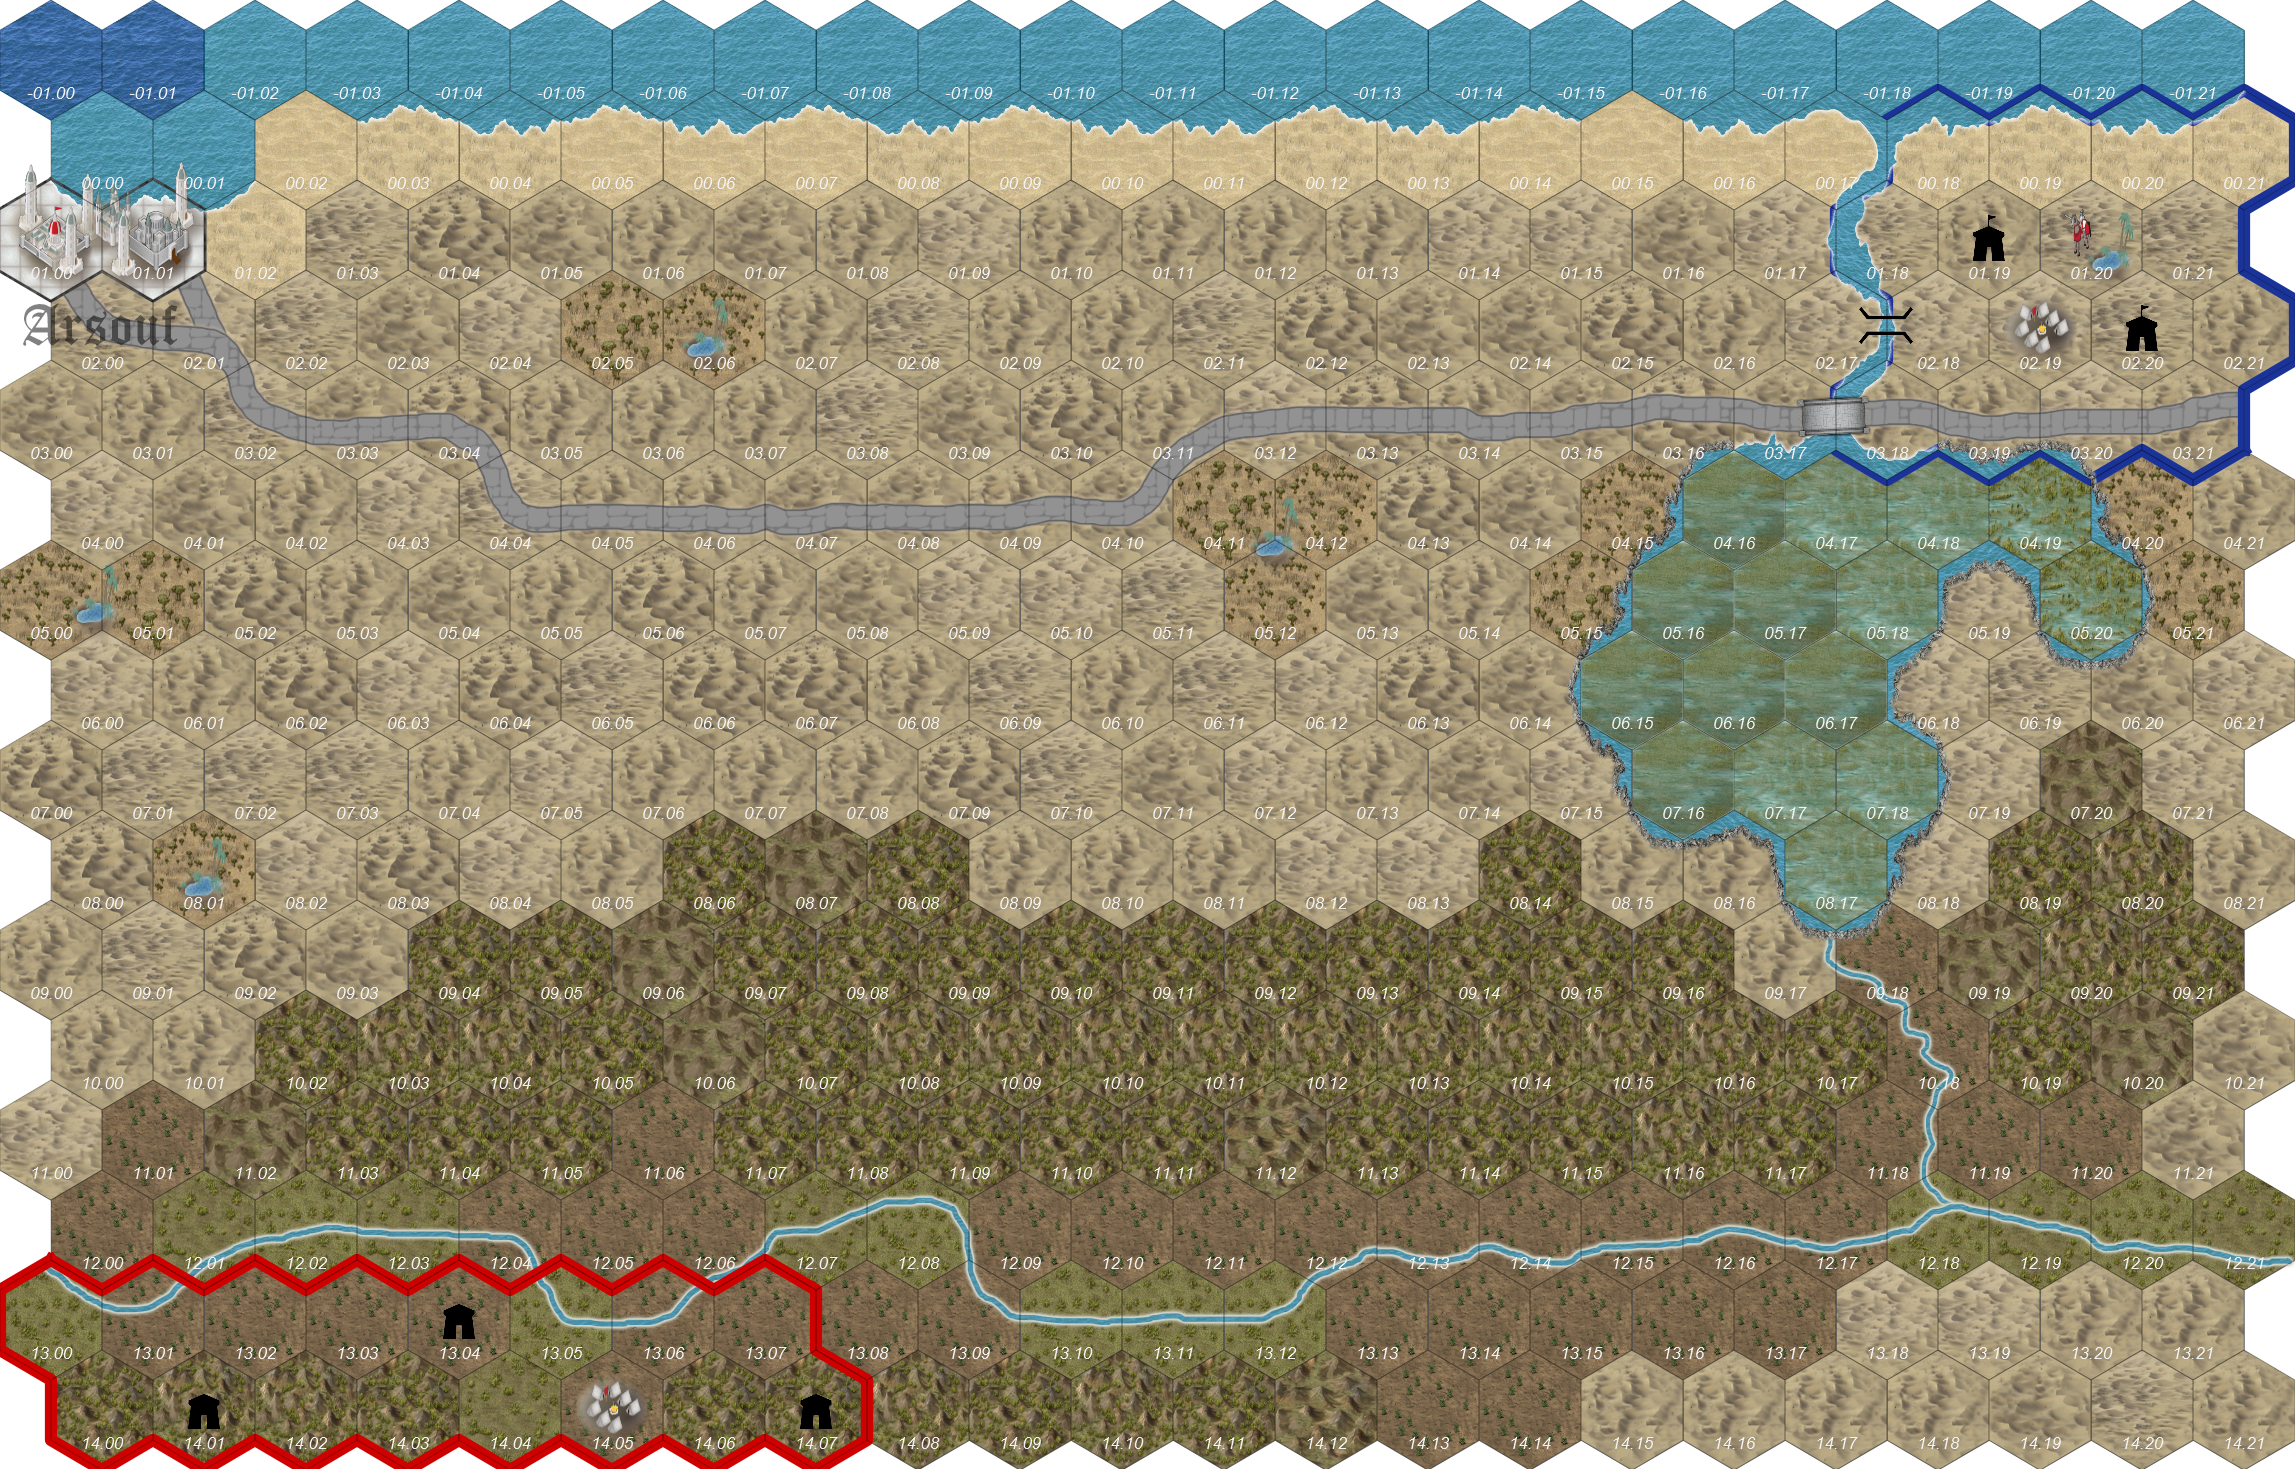
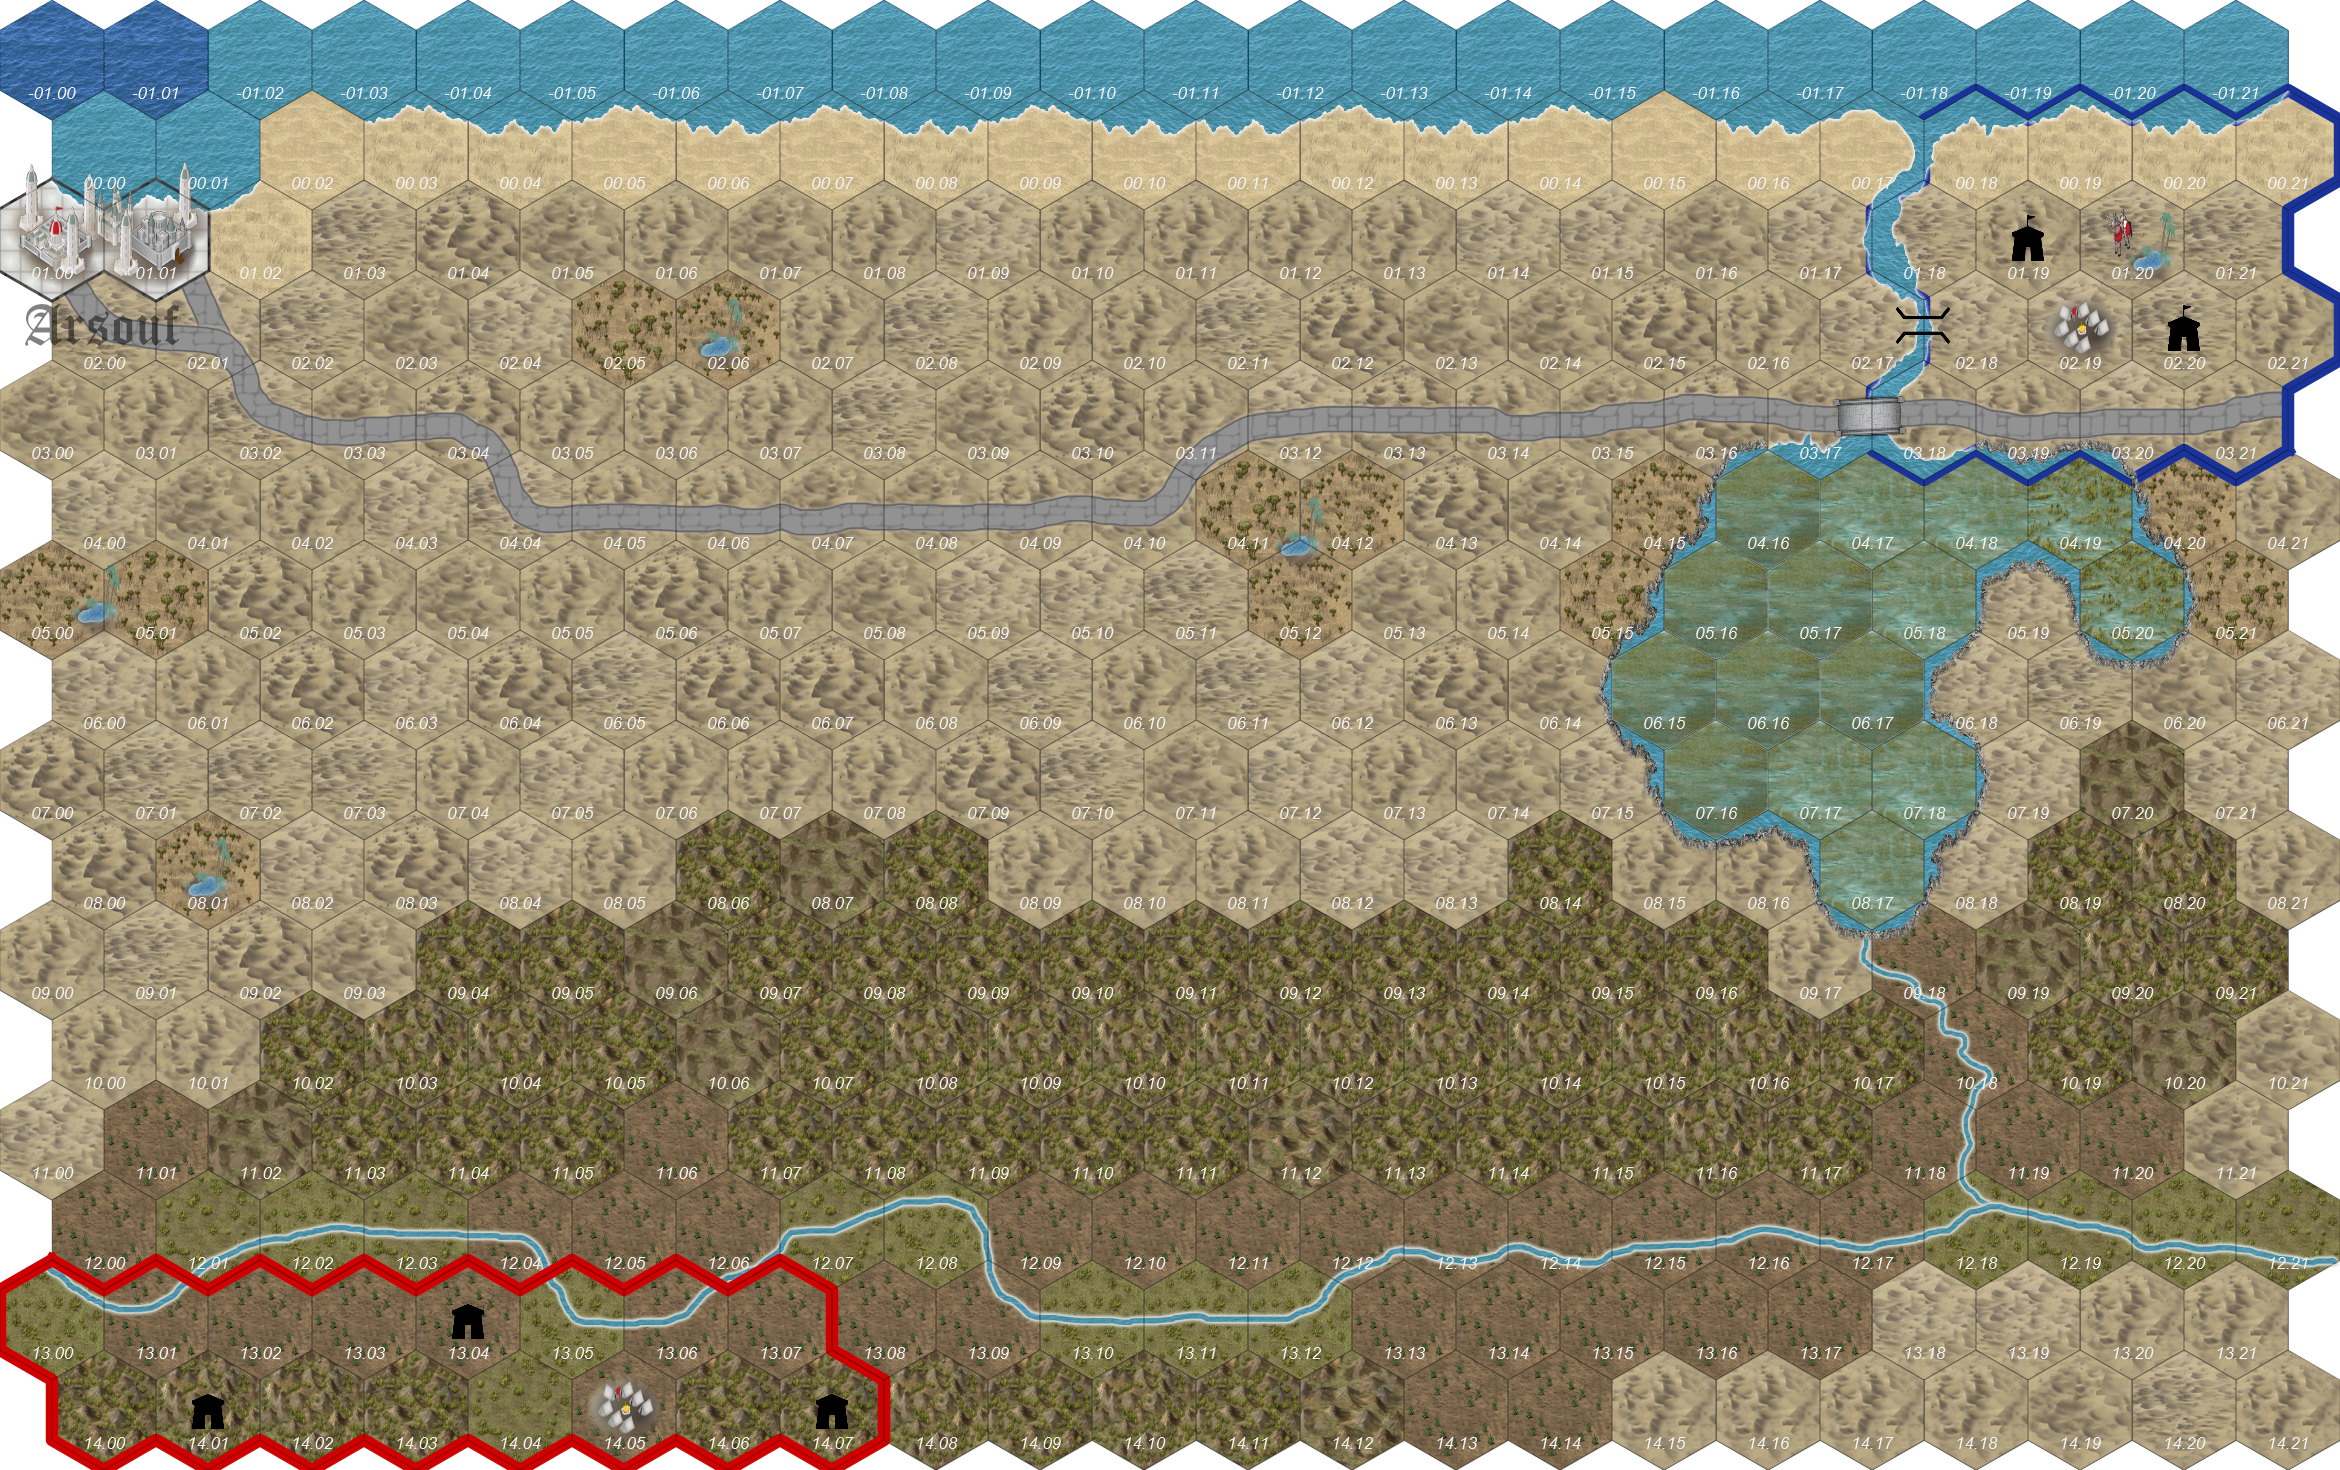
Alfa 0.22
Tablero arreglado, escalado mejorado. Usando hexágonos regulares (104x120)

diff --git a/config.py b/config.py
@@ -2,13 +2,30 @@
 import os
 #import pygame
 
-# 1. Configuración de pantalla
-SCREEN_WIDTH = 2295
-SCREEN_HEIGHT = 1379
+# 1. Dimensiones ORIGINALES del tablero (píxeles físicos)
+TABLERO_REAL_WIDTH = 2340
+TABLERO_REAL_HEIGHT = 1470
+
+# 2. Márgenes REALES (de tu imagen JPG)
+MARGENES = {
+    "superior": 90,  #118,
+    "inferior": 0,  #60,
+    "izquierdo": 0, #45,
+    "derecho": 0    #40
+}
+
+# 3. Área hexagonal REAL (píxeles en tu imagen)
+HEX_AREA_REAL_WIDTH = TABLERO_REAL_WIDTH - MARGENES["izquierdo"] - MARGENES["derecho"]
+HEX_AREA_REAL_HEIGHT = TABLERO_REAL_HEIGHT - MARGENES["superior"] - MARGENES["inferior"]
+
+# 4. Configuración de pantalla
+DISPLAY_SCALING = 0.75
+SCREEN_WIDTH = TABLERO_REAL_WIDTH * DISPLAY_SCALING + 300
+SCREEN_HEIGHT = TABLERO_REAL_HEIGHT * DISPLAY_SCALING + 196
 FPS = 60
 COLOR_BG = (0, 0, 0)
 
-# TAMAÑOS UI
+# 5. TAMAÑOS UI
 PANEL_WIDTH = 300
 BOTON_WIDTH = 250
 BOTON_HEIGHT = 50
@@ -16,7 +33,7 @@ TITULO_Y = 200
 OPCIONES_Y = 300
 OPCIONES_ESPACIADO = 100
 
-# PANEL LOG
+# 5.1 PANEL LOG
 LOG_PANEL_HEIGHT = 196
 LOG_PANEL_WIDTH = SCREEN_WIDTH - PANEL_WIDTH
 LOG_PANEL_COLOR = (30, 30, 40)
@@ -28,22 +45,6 @@ LOG_SCROLLBAR_WIDTH = 14
 LOG_SCROLLBAR_COLOR = (60, 60, 80)
 LOG_SCROLLBAR_HANDLE_COLOR = (130, 130, 160)
 LOG_MAX_MESSAGES = 500  # Máximo de mensajes almacenados
-
-# 2. Dimensiones ORIGINALES del tablero (píxeles físicos)
-TABLERO_REAL_WIDTH = 2295
-TABLERO_REAL_HEIGHT = 1469
-
-# 3. Márgenes REALES (de tu imagen JPG)
-MARGENES = {
-    "superior": 90,  #118,
-    "inferior": 0,  #60,
-    "izquierdo": 0, #45,
-    "derecho": 0    #40
-}
-
-# 4. Área hexagonal REAL (píxeles en tu imagen)
-HEX_AREA_REAL_WIDTH = TABLERO_REAL_WIDTH - MARGENES["izquierdo"] - MARGENES["derecho"]
-HEX_AREA_REAL_HEIGHT = TABLERO_REAL_HEIGHT - MARGENES["superior"] - MARGENES["inferior"]
 
 # 5. Grid hexagonal
 HEX_ROWS = 15
@@ -79,11 +80,11 @@ FORD_HEX = (2,17)  # Hexágono donde se puede cruzar el río
 # Calculamos el factor de escala basado en el espacio disponible
 AVAILABLE_WIDTH = SCREEN_WIDTH - PANEL_WIDTH
 AVAILABLE_HEIGHT = SCREEN_HEIGHT - LOG_PANEL_HEIGHT
-ESCALA = min(AVAILABLE_WIDTH / HEX_AREA_REAL_WIDTH, AVAILABLE_HEIGHT / HEX_AREA_REAL_HEIGHT)
+ESCALA = min(AVAILABLE_WIDTH / TABLERO_REAL_WIDTH, AVAILABLE_HEIGHT / TABLERO_REAL_HEIGHT)
 
 # 7. Dimensiones originales del hexágono (según especificación)
 HEX_REAL_HEIGHT = 120  # Altura original del hexágono en píxeles
-HEX_REAL_WIDTH = 102   # Ancho original del hexágono en píxeles
+HEX_REAL_WIDTH = 104   # Ancho original del hexágono en píxeles
 
 # 8. Dimensiones escaladas del hexágono (para pantalla)
 HEX_HEIGHT = int(HEX_REAL_HEIGHT * ESCALA)

diff --git a/main.py b/main.py
@@ -151,7 +151,9 @@ class Game:
         """Maneja la fase de movimiento (existente)"""
         if event.type == pygame.MOUSEBUTTONDOWN:
             mouse_pos = pygame.mouse.get_pos()
-            tablero_rect = pygame.Rect(0, 0, self.tablero_escalado.get_width(),
+            pos_x = (SCREEN_WIDTH - self.tablero_escalado.get_width() - PANEL_WIDTH) // 2
+            pos_y = (SCREEN_HEIGHT - self.tablero_escalado.get_height() - LOG_PANEL_HEIGHT) // 2
+            tablero_rect = pygame.Rect(pos_x, pos_y, self.tablero_escalado.get_width(),
                                        self.tablero_escalado.get_height())
 
             if tablero_rect.collidepoint(mouse_pos):
@@ -169,7 +171,9 @@ class Game:
                 return
 
             # Verificar clic en el tablero
-            tablero_rect = pygame.Rect(0, 0, self.tablero_escalado.get_width(),
+            pos_x = (SCREEN_WIDTH - self.tablero_escalado.get_width() - PANEL_WIDTH) // 2
+            pos_y = (SCREEN_HEIGHT - self.tablero_escalado.get_height() - LOG_PANEL_HEIGHT) // 2
+            tablero_rect = pygame.Rect(pos_x, pos_y, self.tablero_escalado.get_width(),
                                        self.tablero_escalado.get_height())
             if tablero_rect.collidepoint(mouse_pos):
                 hex_pos = self._get_hex_under_mouse(mouse_pos)

diff --git a/gameui.py b/gameui.py
@@ -220,7 +220,8 @@ class GameUI:
 
     def handle_deployment_click(self, mouse_pos, game):
         """Maneja el clic durante el despliegue."""
-        tablero_rect = pygame.Rect(0, 0, game.tablero_escalado.get_width(), 
+        pos_x, pos_y = self._calculate_board_position(game.tablero_escalado)
+        tablero_rect = pygame.Rect(pos_x, pos_y, game.tablero_escalado.get_width(), 
                                   game.tablero_escalado.get_height())
 
         if tablero_rect.collidepoint(mouse_pos):

diff --git a/hexgrid.py b/hexgrid.py
@@ -20,7 +20,7 @@ class HexGrid:
 
         # Offsets para alineación visual (ajustar según necesidad)
         self.offset_x = MARGENES_ESCALADOS["izquierdo"] + int(self.hex_width * 0.5)
-        self.offset_y = MARGENES_ESCALADOS["superior"] + int(self.hex_height * 0.5)        
+        self.offset_y = MARGENES_ESCALADOS["superior"] + int(self.hex_height * 0.5)
 
     def hex_to_pixel(self, row, col) -> tuple[int, int]:
         """
